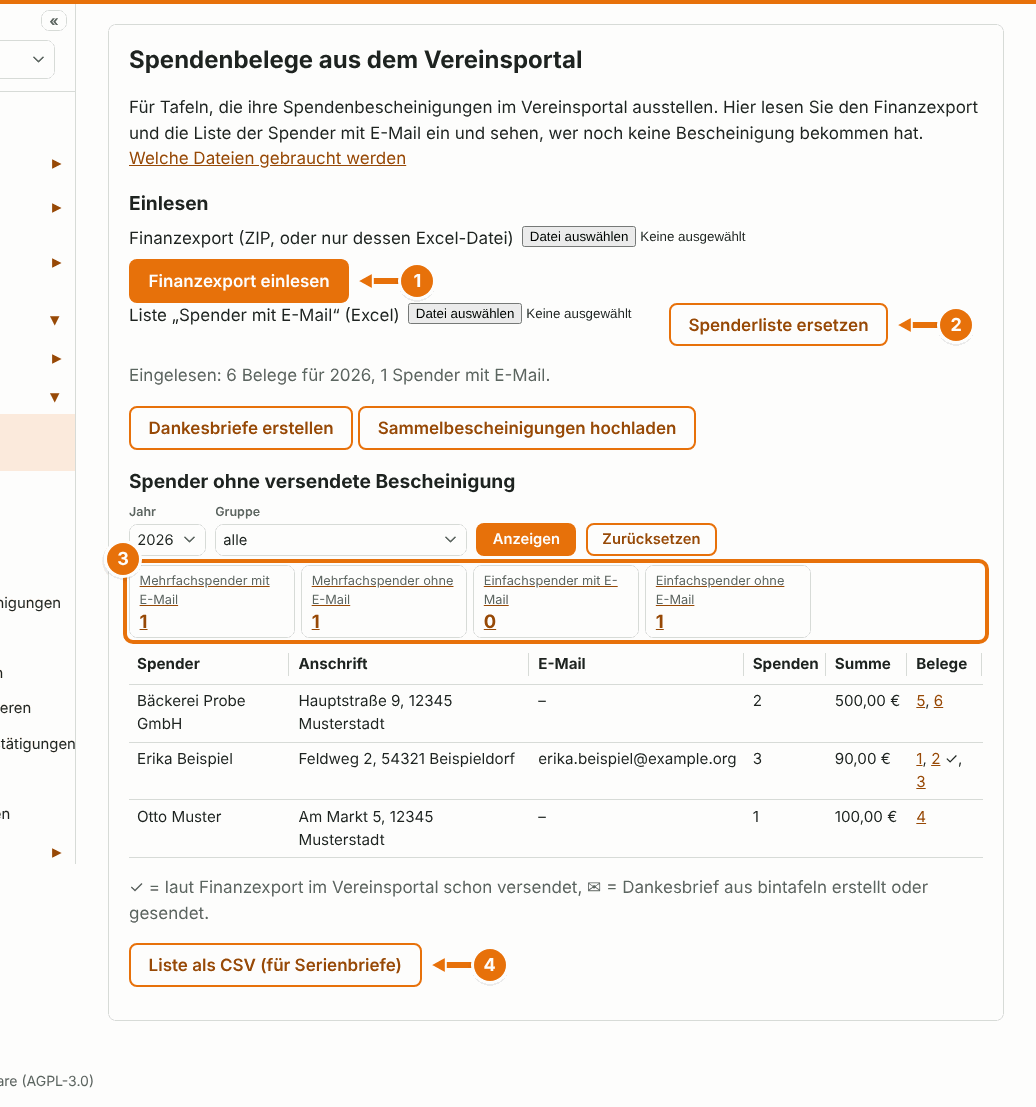
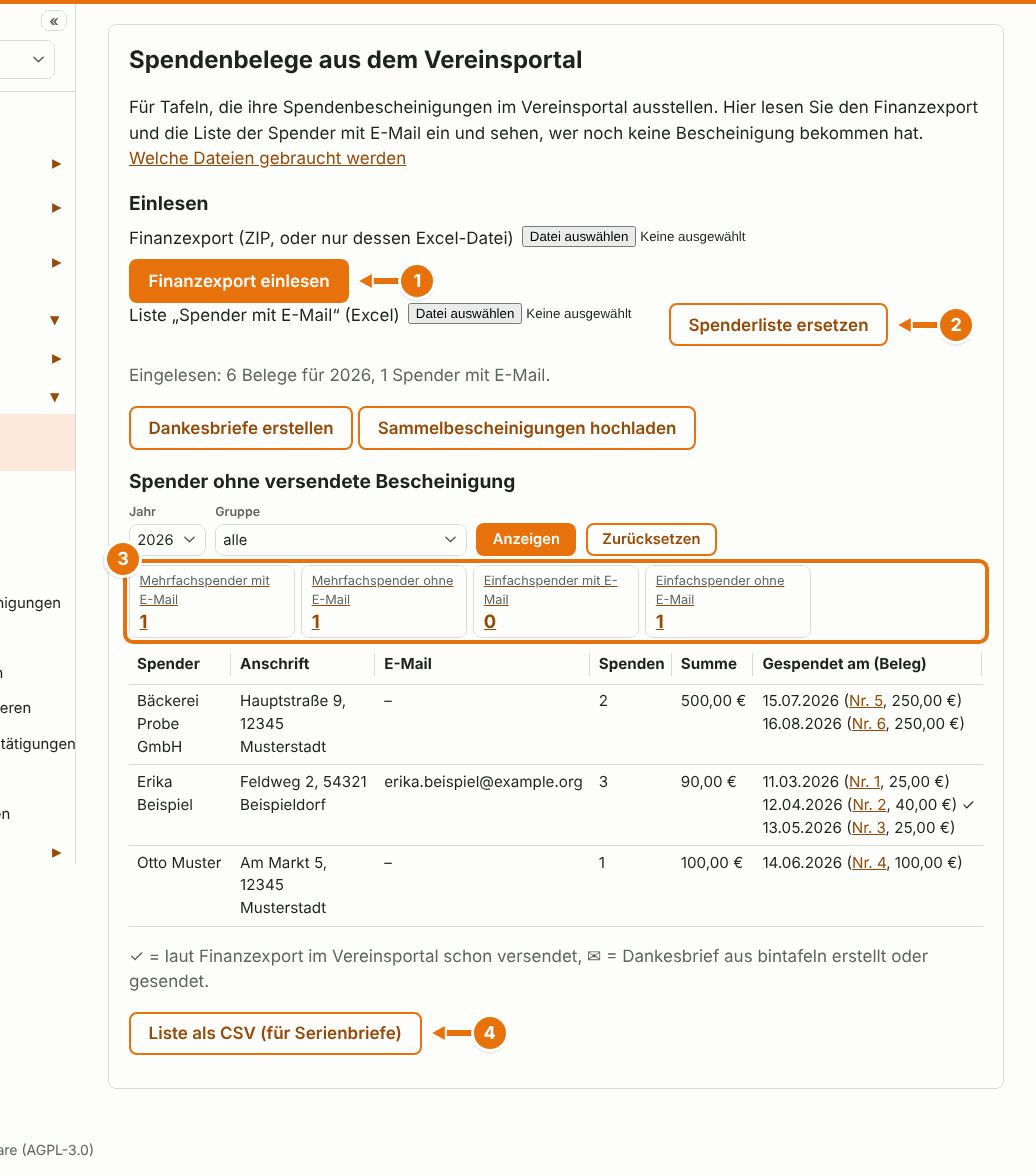
Vereinsportal: Spendendatum zu jedem Beleg
- In der Liste „Belege aus dem Vereinsportal“ steht jetzt zu jedem Beleg das Spendendatum (Tag der Zuwendung), dazu Belegnummer und Betrag
- Für schon eingelesene Belege trägt bintafeln das Spendendatum beim Öffnen der Seite aus dem gespeicherten Beleg nach
- Die CSV-Liste hat eine Spalte „Spendendaten“; Dankesbriefe können {spendendaten} verwenden

Claude-Session: https://claude.ai/code/session_01WjR9zy7tEqNCnFqv8EaKLW

diff --git a/apps/vereinsportal/templates/vereinsportal/start.html b/apps/vereinsportal/templates/vereinsportal/start.html
@@ -46,7 +46,7 @@
   {% if spender %}
   <div class="tabelle-rahmen">
     <table class="tabelle kompakt" id="portal-spender">
-      <thead><tr><th>Spender</th><th>Anschrift</th><th>E-Mail</th><th class="zahl">Spenden</th><th class="zahl">Summe</th><th>Belege</th></tr></thead>
+      <thead><tr><th>Spender</th><th>Anschrift</th><th>E-Mail</th><th class="zahl">Spenden</th><th class="zahl">Summe</th><th>Gespendet am (Beleg)</th></tr></thead>
       <tbody>
         {% for s in spender %}
         <tr>
@@ -55,7 +55,8 @@
           <td>{{ s.email|default:"–" }}</td>
           <td class="zahl">{{ s.anzahl }}</td>
           <td class="zahl">{{ s.summe|floatformat:2 }} €</td>
-          <td>{% for b in s.belege %}<a href="{% url 'vereinsportal:beleg' b.pk %}" target="_blank" rel="noopener" title="{{ b.dateiname }}">{{ b.belegnummer|default:b.dateiname }}</a>{% if b.im_portal_versendet %} ✓{% elif b.bedankt_am %} ✉{% endif %}{% if not forloop.last %}, {% endif %}{% endfor %}</td>
+          <td>{% for b in s.belege %}<span style="white-space: nowrap">{% if b.datum %}{{ b.datum|date:"d.m.Y" }}{% else %}<em title="Im Beleg war kein Datum zu lesen">Datum fehlt</em>{% endif %}
+            (<a href="{% url 'vereinsportal:beleg' b.pk %}" target="_blank" rel="noopener" title="{{ b.dateiname }} öffnen">{% if b.belegnummer %}Nr. {{ b.belegnummer }}{% else %}{{ b.dateiname }}{% endif %}</a>{% if b.betrag %}, {{ b.betrag|floatformat:2 }} €{% endif %}){% if b.im_portal_versendet %} ✓{% elif b.bedankt_am %} ✉{% endif %}</span>{% if not forloop.last %}<br>{% endif %}{% endfor %}</td>
         </tr>
         {% endfor %}
       </tbody>

diff --git a/apps/vereinsportal/templates/hilfe/vereinsportal.html b/apps/vereinsportal/templates/hilfe/vereinsportal.html
@@ -73,12 +73,15 @@
 <p>Ein Spender ist, wer auf den Belegen denselben Namen trägt. <strong>Mehrfachspender</strong> hat im gewählten Jahr
   mehrere Belege. Ein Spender steht nur in der Liste, solange mindestens ein Beleg im Vereinsportal noch nicht
   versendet ist (versendete Belege tragen ein ✓). „Mit E-Mail“ heißt: Der Name steht in der Liste „Spender mit
-  E-Mail“ und dort ist nicht „immer per Post“ gewählt. Die Nummer eines Belegs öffnet das PDF. „Liste als CSV“ gibt
+  E-Mail“ und dort ist nicht „immer per Post“ gewählt. Zu jedem Beleg steht das <strong>Spendendatum</strong> (der
+  Tag der Zuwendung laut Beleg), die Belegnummer und der Betrag; die Nummer öffnet das PDF. Für Belege, die vor
+  Einführung des Spendendatums eingelesen wurden, trägt bintafeln es beim Öffnen der Seite aus dem gespeicherten
+  Beleg nach. „Liste als CSV“ gibt
   die gezeigte Gruppe mit Anschrift für Serienbriefe aus.</p>
 
 <h3>Dankesbriefe</h3>
 <p>Der Brief kommt aus einer Serienbrief-Vorlage (Verein → Serienbriefe → Vorlagen). Sie können darin {anrede},
-  {name}, {spendensumme}, {anzahl_spenden}, {jahr} und {datum} verwenden; Anschrift, Briefkopf und Datum setzt
+  {name}, {spendensumme}, {anzahl_spenden}, {spendendaten}, {jahr} und {datum} verwenden; Anschrift, Briefkopf und Datum setzt
   bintafeln wie bei jedem Serienbrief. Die Anrede „Sehr geehrte Frau …“ gibt es nur für Spender aus der Liste
   „Spender mit E-Mail“; alle anderen werden mit „Sehr geehrte Damen und Herren,“ angesprochen.</p>
 <ol>

diff --git a/apps/vereinsportal/einlesen.py b/apps/vereinsportal/einlesen.py
@@ -12,6 +12,7 @@ Die Regeln stammen aus dem bisherigen Spendenbelege-Programm der Tafel:
   „Anrede“ (für die Briefanrede) und „immer per Post“.
 """
 
+import datetime as dt
 import io
 import re
 import zipfile
@@ -33,7 +34,7 @@ MAX_EXCEL = 30 * 1024 * 1024
 MAX_ZEILEN = 20000
 BLATT = "Spenden - Übersicht"
 KOPFZEILE = 6
-DATUM = re.compile(r"\d{2}\.\d{2}\.(\d{4})")
+TAG = re.compile(r"(\d{2})\.(\d{2})\.(\d{4})")
 BETRAG = re.compile(r"([\d.]+,\d{2})\s+[a-zä-ü\-]+", re.IGNORECASE)
 NUMMER = re.compile(r"_(\d+)\.pdf$", re.IGNORECASE)
 
@@ -49,6 +50,7 @@ class Angaben:
     plz_ort: str
     jahr: int
     betrag: Decimal
+    datum: dt.date | None = None
 
 
 @dataclass
@@ -92,6 +94,23 @@ def _zeilen(inhalt: bytes) -> list[str]:
     return [z.strip() for z in text.split("\n") if z.strip()]
 
 
+def _daten(zeile: str):
+    for tag, monat, jahr in TAG.findall(zeile):
+        try:
+            yield dt.date(int(jahr), int(monat), int(tag))
+        except ValueError:  # z. B. 31.02.
+            continue
+
+
+def spendendatum(zeilen: list[str]) -> dt.date | None:
+    """Der Tag der Zuwendung: das Datum bei „Tag der Zuwendung“ (in derselben oder einer der
+    nächsten Zeilen, je nachdem wie das PDF seine Tabelle ausgibt), sonst das erste Datum im
+    Beleg."""
+    marke = next((i for i, z in enumerate(zeilen) if "tag der zuwendung" in z.lower()), None)
+    bereiche = ([zeilen[marke : marke + 4]] if marke is not None else []) + [zeilen]
+    return next((d for bereich in bereiche for z in bereich for d in _daten(z)), None)
+
+
 def beleg_lesen(inhalt: bytes, absender: str = "") -> Angaben | None:
     """Spender, Jahr und Betrag aus einem Beleg; None ohne vollständige Anschrift."""
     zeilen = _zeilen(inhalt)
@@ -100,7 +119,8 @@ def beleg_lesen(inhalt: bytes, absender: str = "") -> Angaben | None:
         (zeilen[i + 1] for i, z in enumerate(zeilen[:-1]) if "|" in z and gesucht in z.lower()),
         None,
     )
-    jahr = next((int(t.group(1)) for t in map(DATUM.search, zeilen) if t), None)
+    datum = spendendatum(zeilen)
+    jahr = datum.year if datum else None
     if not spender or not jahr:
         return None
     teile = [t.strip() for t in spender.split("|")]
@@ -113,7 +133,7 @@ def beleg_lesen(inhalt: bytes, absender: str = "") -> Angaben | None:
             break
         except InvalidOperation:
             continue
-    return Angaben(teile[0][:250], teile[1][:200], teile[2][:200], jahr, betrag)
+    return Angaben(teile[0][:250], teile[1][:200], teile[2][:200], jahr, betrag, datum)
 
 
 def _mappe(inhalt):
@@ -173,6 +193,7 @@ def finanzexport_einlesen(datei, von: str) -> Ergebnis:
         raise EinleseFehler("Die Datei ist kein ZIP-Archiv.") from fehler
     absender = PortalEinstellungen.laden().absender
     vorhanden = set(Beleg.objects.values_list("dateiname", flat=True))
+    ohne_datum = set(Beleg.objects.filter(datum=None).values_list("dateiname", flat=True))
     ergebnis, nummern = Ergebnis(), set()
     namen = ((i, i.filename.lower()) for i in archiv.infolist())
     belege = [i for i, n in namen if "spenden" in n and n.endswith(".pdf")]
@@ -180,10 +201,12 @@ def finanzexport_einlesen(datei, von: str) -> Ergebnis:
         raise EinleseFehler(f"Mehr als {MAX_BELEGE} Belege; bitte einen kürzeren Zeitraum wählen.")
     for eintrag in belege:
         name = eintrag.filename.rsplit("/", 1)[-1][:200]
+        inhalt = archiv.read(eintrag) if eintrag.file_size <= MAX_PDF else b""
         if name in vorhanden:
             ergebnis.doppelt += 1
+            if name in ohne_datum:  # früher ohne Spendendatum eingelesen: jetzt nachtragen
+                _datum_nachtragen(Beleg.objects.get(dateiname=name), inhalt, absender)
             continue
-        inhalt = archiv.read(eintrag) if eintrag.file_size <= MAX_PDF else b""
         angaben = beleg_lesen(inhalt, absender)
         if angaben is None:
             ergebnis.ohne_anschrift += 1
@@ -191,7 +214,7 @@ def finanzexport_einlesen(datei, von: str) -> Ergebnis:
         Beleg.objects.create(
             dateiname=name, belegnummer=belegnummer(name), name=angaben.name,
             such_name=normal(angaben.name), strasse=angaben.strasse, plz_ort=angaben.plz_ort,
-            jahr=angaben.jahr, betrag=angaben.betrag, eingelesen_von=von,
+            jahr=angaben.jahr, datum=angaben.datum, betrag=angaben.betrag, eingelesen_von=von,
             datei=privatdateien.ablegen(Beleg.ORDNER, inhalt),
         )  # fmt: skip
         vorhanden.add(name)
@@ -204,6 +227,29 @@ def finanzexport_einlesen(datei, von: str) -> Ergebnis:
                 ergebnis.mit_uebersicht = True
     ergebnis.versendet = _versendet_vermerken(nummern)
     return ergebnis
+
+
+def _datum_nachtragen(beleg: Beleg, inhalt: bytes, absender: str) -> bool:
+    angaben = beleg_lesen(inhalt, absender) if inhalt else None
+    if angaben is None or angaben.datum is None:
+        return False
+    beleg.datum, beleg.jahr = angaben.datum, angaben.jahr
+    beleg.save(update_fields=["datum", "jahr"])
+    return True
+
+
+def daten_nachtragen(grenze: int = 300) -> int:
+    """Belege, die vor Einführung des Spendendatums eingelesen wurden: Datum aus dem
+    gespeicherten PDF nachtragen. In Portionen, damit die Seite nicht lange lädt."""
+    absender = PortalEinstellungen.laden().absender
+    anzahl = 0
+    for beleg in Beleg.objects.filter(datum=None, datum_gesucht=False)[:grenze]:
+        inhalt = privatdateien.lesen(Beleg.ORDNER, beleg.datei) or b""
+        if _datum_nachtragen(beleg, inhalt, absender):
+            anzahl += 1
+        else:  # nicht noch einmal versuchen
+            Beleg.objects.filter(pk=beleg.pk).update(datum_gesucht=True)
+    return anzahl
 
 
 def _ja(wert) -> bool:

diff --git a/tests/test_vereinsportal.py b/tests/test_vereinsportal.py
@@ -102,6 +102,22 @@ def test_beleg_lesen_spender_jahr_betrag():
     assert (a.jahr, a.betrag) == (2026, D("1250.00"))
 
 
+def test_spendendatum_steht_bei_tag_der_zuwendung():
+    """Das Spendendatum ist der Tag der Zuwendung, nicht irgendein Datum im Beleg (z. B. das
+    Ausstellungsdatum davor)."""
+    a = einlesen.beleg_lesen(beleg_pdf(), ABSENDER)
+    assert (a.datum, a.jahr) == (dt.date(2026, 3, 14), 2026)
+    zeilen = ["Musterstadt, 05.01.2027", "Betrag in Ziffern in Buchstaben Tag der Zuwendung",
+              "25,00 fünfundzwanzig 28.12.2026", "Bescheid vom 02.02.2024"]  # fmt: skip
+    assert einlesen.spendendatum(zeilen) == dt.date(2026, 12, 28)
+    assert einlesen.spendendatum(["Tag der Zuwendung: 03.04.2026", "01.01.2020"]) == dt.date(
+        2026, 4, 3
+    )
+    # ohne die Angabe: das erste gültige Datum; ungültige Tage zählen nicht
+    assert einlesen.spendendatum(["am 31.02.2026 oder 01.03.2026"]) == dt.date(2026, 3, 1)
+    assert einlesen.spendendatum(["kein Datum"]) is None
+
+
 def test_beleg_lesen_ohne_absender_gilt_die_erste_zeile_mit_strich():
     assert einlesen.beleg_lesen(beleg_pdf()).name == "Erika Beispiel"
 
@@ -141,6 +157,7 @@ def test_finanzexport_einlesen(export):
     assert (b.name, b.such_name, b.jahr, b.betrag) == ("Erika Beispiel", "erika beispiel", 2026,
                                                        D("25.00"))  # fmt: skip
     assert b.eingelesen_von == "buero" and not b.im_portal_versendet
+    assert b.datum == dt.date(2026, 3, 14)
     assert Beleg.objects.get(belegnummer="3").im_portal_versendet
     # verschlüsselt abgelegt, lesbar nur über privatdateien
     assert privatdateien.lesen(Beleg.ORDNER, b.datei).startswith(b"%PDF")
@@ -152,6 +169,26 @@ def test_finanzexport_zweimal_einlesen_legt_nichts_doppelt_an(export):
     export.seek(0)
     e = einlesen.finanzexport_einlesen(export, "buero")
     assert (e.neu, e.doppelt, Beleg.objects.count()) == (0, 3, 3)
+
+
+def test_spendendatum_wird_fuer_alte_belege_nachgetragen(export):
+    """Belege, die vor dem Spendendatum eingelesen wurden: beim nächsten Einlesen derselben
+    Datei und beim Öffnen der Seite aus dem gespeicherten PDF."""
+    einlesen.finanzexport_einlesen(export, "buero")
+    Beleg.objects.update(datum=None, jahr=2020)
+    export.seek(0)
+    e = einlesen.finanzexport_einlesen(export, "buero")
+    assert (e.neu, e.doppelt) == (0, 3)
+    assert set(Beleg.objects.values_list("datum", "jahr")) == {(dt.date(2026, 3, 14), 2026)}
+    # … und ohne die Datei: aus dem verschlüsselt gespeicherten Beleg
+    Beleg.objects.update(datum=None, jahr=2020)
+    kaputt = Beleg.objects.get(belegnummer="3")
+    privatdateien.loeschen(Beleg.ORDNER, kaputt.datei)
+    assert einlesen.daten_nachtragen() == 2
+    assert Beleg.objects.filter(datum=dt.date(2026, 3, 14), jahr=2026).count() == 2
+    kaputt.refresh_from_db()
+    assert kaputt.datum is None and kaputt.datum_gesucht
+    assert einlesen.daten_nachtragen() == 0  # nicht lesbar: kein zweiter Versuch
 
 
 def test_finanzexport_ohne_uebersicht():
@@ -277,7 +314,9 @@ def test_teilweise_versendet_bleibt_in_der_liste(eingelesen):
 def test_csv(eingelesen):
     text = auswertung.csv_text(auswertung.spender(2026))
     assert text.startswith("Name;Straße")
-    assert "Erika Beispiel;Feldweg 2;54321 Beispieldorf;erika@example.org;2;1275,00;2" in text
+    assert text.splitlines()[0].endswith(";Spendendaten")
+    zeile = "Erika Beispiel;Feldweg 2;54321 Beispieldorf;erika@example.org;2;1275,00;2;"
+    assert zeile + "14.03.2026, 14.03.2026" in text
 
 
 def test_jahre_enthaelt_aktuelles_und_vorhandene(eingelesen):
@@ -329,6 +368,11 @@ def test_seite_einlesen_und_liste(buero, export):
     inhalt = buero.get(reverse("vereinsportal:start"), {"jahr": "2026"}).content.decode()
     assert "Erika Beispiel" in inhalt and "erika@example.org" in inhalt
     assert "Otto Muster" not in inhalt
+    # zu jedem Beleg das Spendendatum; fehlt es, steht das da
+    assert "Gespendet am" in inhalt and "14.03.2026" in inhalt and "Nr. 1" in inhalt
+    Beleg.objects.filter(belegnummer="1").update(datum=None, datum_gesucht=True)
+    inhalt = buero.get(reverse("vereinsportal:start"), {"jahr": "2026"}).content.decode()
+    assert "Datum fehlt" in inhalt
     leer = buero.get(reverse("vereinsportal:start"), {"jahr": "2026", "gruppe": "einfach_post"})
     assert "Keine Spender in dieser Auswahl" in leer.content.decode()
     # unbekannte Angaben fallen auf die Vorgabe zurück
@@ -486,6 +530,7 @@ def test_auswahl_bereit_und_werte(spender_da):
     assert (e.email, e.werte["anrede"], e.werte["nachname"]) == (
         "anna@example.org", "Sehr geehrte Frau Probe,", "Probe")  # fmt: skip
     assert e.werte["spendensumme"] == "5,00 €"
+    assert e.werte["spendendaten"] == "14.03.2026"
     # nicht mehr lesbare Datei: keine Anlage statt Fehler
     privatdateien.loeschen(Beleg.ORDNER, otto.belege[0].datei)
     assert briefe.anlagen(otto) == []

diff --git a/apps/vereinsportal/auswertung.py b/apps/vereinsportal/auswertung.py
@@ -46,6 +46,11 @@ class Spender:
         return sum(1 for b in self.belege if not b.im_portal_versendet)
 
     @property
+    def spendendaten(self) -> str:
+        """Die Tage der Zuwendung, z. B. „15.01.2026, 15.06.2026“."""
+        return ", ".join(f"{b.datum:%d.%m.%Y}" for b in self.belege if b.datum)
+
+    @property
     def mehrfach(self) -> bool:
         return self.anzahl > 1
 
@@ -65,7 +70,7 @@ def spender(jahr: int) -> list[Spender]:
     sammel = {s.such_name: s for s in Sammelbescheinigung.objects.filter(jahr=jahr)
               .exclude(such_name="").order_by("hochgeladen_am")}  # fmt: skip
     alle: dict[str, Spender] = {}
-    for b in Beleg.objects.filter(jahr=jahr).order_by("dateiname"):
+    for b in Beleg.objects.filter(jahr=jahr).order_by("datum", "dateiname"):
         k = kontakte.get(b.such_name)
         s = alle.setdefault(b.such_name, Spender(
             b.name, b.strasse, b.plz_ort, k.email if k and not k.immer_post else "",
@@ -89,10 +94,11 @@ def csv_text(liste: list[Spender]) -> str:
     puffer = io.StringIO()
     schreiber = csv.writer(puffer, delimiter=";")
     schreiber.writerow(["Name", "Straße", "PLZ und Ort", "E-Mail", "Anzahl Spenden",
-                        "Gesamtbetrag", "Noch nicht versendet"])  # fmt: skip
+                        "Gesamtbetrag", "Noch nicht versendet", "Spendendaten"])  # fmt: skip
     for s in liste:
-        schreiber.writerow([s.name, s.strasse, s.plz_ort, s.email, s.anzahl,
-                            f"{s.summe:.2f}".replace(".", ","), s.offen])  # fmt: skip
+        summe = f"{s.summe:.2f}".replace(".", ",")
+        schreiber.writerow([s.name, s.strasse, s.plz_ort, s.email, s.anzahl, summe, s.offen,
+                            s.spendendaten])  # fmt: skip
     return "" + puffer.getvalue()
 
 

diff --git a/apps/vereinsportal/migrations/0005_spendendatum.py b/apps/vereinsportal/migrations/0005_spendendatum.py
@@ -1,0 +1,28 @@
+# Generated by Django 5.2.18 on 2026-11-12 14:26
+
+from django.db import migrations, models
+
+
+class Migration(migrations.Migration):
+
+    dependencies = [
+        ("vereinsportal", "0004_abruf"),
+    ]
+
+    operations = [
+        migrations.AddField(
+            model_name="beleg",
+            name="datum",
+            field=models.DateField(
+                blank=True,
+                help_text="Tag der Zuwendung laut Beleg. Fehlt bei Belegen, in denen er nicht zu lesen war.",
+                null=True,
+                verbose_name="Spendendatum",
+            ),
+        ),
+        migrations.AddField(
+            model_name="beleg",
+            name="datum_gesucht",
+            field=models.BooleanField(default=False, editable=False),
+        ),
+    ]

diff --git a/apps/vereinsportal/models.py b/apps/vereinsportal/models.py
@@ -102,6 +102,12 @@ class Beleg(models.Model):
     strasse = models.CharField("Straße und Hausnummer", max_length=200)
     plz_ort = models.CharField("PLZ und Ort", max_length=200)
     jahr = models.PositiveIntegerField("Jahr", db_index=True)
+    datum = models.DateField(
+        "Spendendatum", null=True, blank=True,
+        help_text="Tag der Zuwendung laut Beleg. Fehlt bei Belegen, in denen er nicht zu lesen "
+        "war.",
+    )  # fmt: skip
+    datum_gesucht = models.BooleanField(default=False, editable=False)  # Nachtragen versucht
     betrag = models.DecimalField("Betrag", max_digits=12, decimal_places=2, default=0)
     im_portal_versendet = models.BooleanField(
         "Im Vereinsportal versendet", default=False,

diff --git a/tests/e2e/test_hilfe_bilder_module.py b/tests/e2e/test_hilfe_bilder_module.py
@@ -848,6 +848,7 @@ def test_hilfe_bild_vereinsportal(angemeldet, admin, muster, benutzer_mit_rolle)
                 plz_ort=ort,
                 jahr=jahr,
                 betrag=D(betrag),
+                datum=dt.date(jahr, 2 + nummer, 10 + nummer),
                 datei="erfunden.bin",
                 im_portal_versendet=nummer == 2,
             )
@@ -896,6 +897,7 @@ def test_hilfe_bild_vereinsportal_briefe(angemeldet, admin, muster, benutzer_mit
                 plz_ort=ort,
                 jahr=jahr,
                 betrag=D(betrag),
+                datum=dt.date(jahr, 2 + nummer, 10 + nummer),
                 datei="erfunden.bin",
             )
     Sammelbescheinigung.objects.create(

diff --git a/apps/vereinsportal/views.py b/apps/vereinsportal/views.py
@@ -64,6 +64,8 @@ def start(request):
         else:
             messages.error(request, "Bitte eine Datei wählen.")
         return redirect(f"{reverse('vereinsportal:start')}?jahr={jahr}")
+    einlesen.daten_nachtragen()  # Spendendatum für früher eingelesene Belege
+    jahr = _jahr(request)  # das Nachtragen kann das Jahr eines Belegs berichtigen
     alle = auswertung.spender(jahr)
     gruppe = request.GET.get("gruppe") if request.GET.get("gruppe") in GRUPPEN else ""
     return render(request, "vereinsportal/start.html", {

diff --git a/apps/vereinsportal/briefe.py b/apps/vereinsportal/briefe.py
@@ -41,7 +41,7 @@ def werte(s, jahr: int) -> emp.Empfaenger:
         f"p:{normal(s.name)}", s.name, [s.name, s.strasse, s.plz_ort], s.email,
         {"anrede": anrede, "name": s.name, "vorname": k.vorname if k else "",
          "nachname": k.nachname if k else "", "spendensumme": emp._euro(s.summe),
-         "anzahl_spenden": s.anzahl},
+         "anzahl_spenden": s.anzahl, "spendendaten": s.spendendaten},
     )  # fmt: skip
 
 
